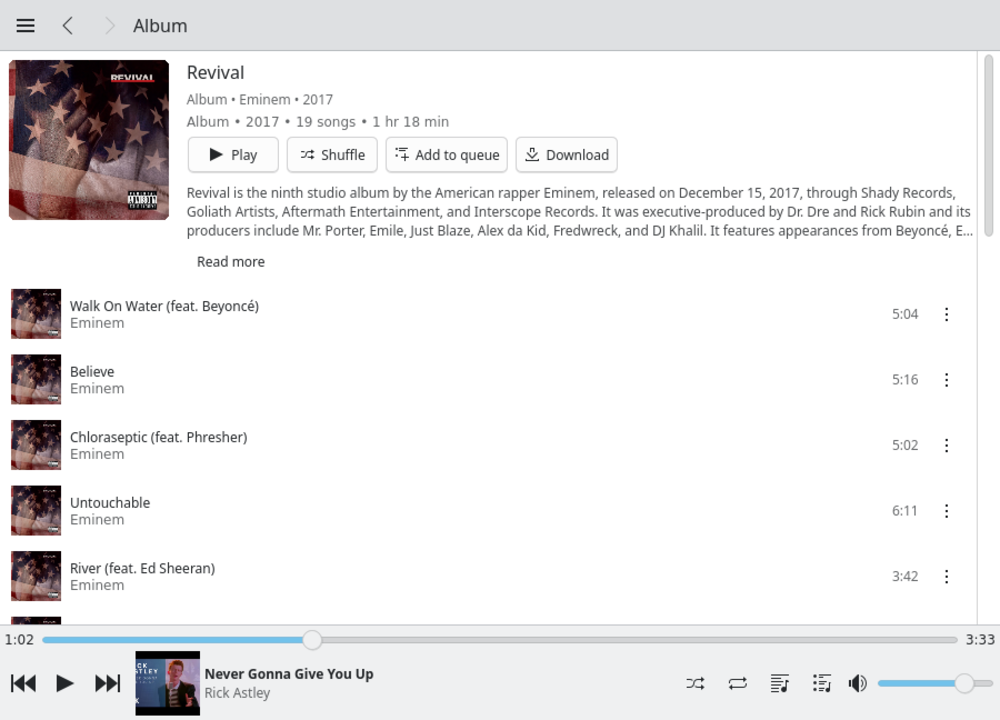
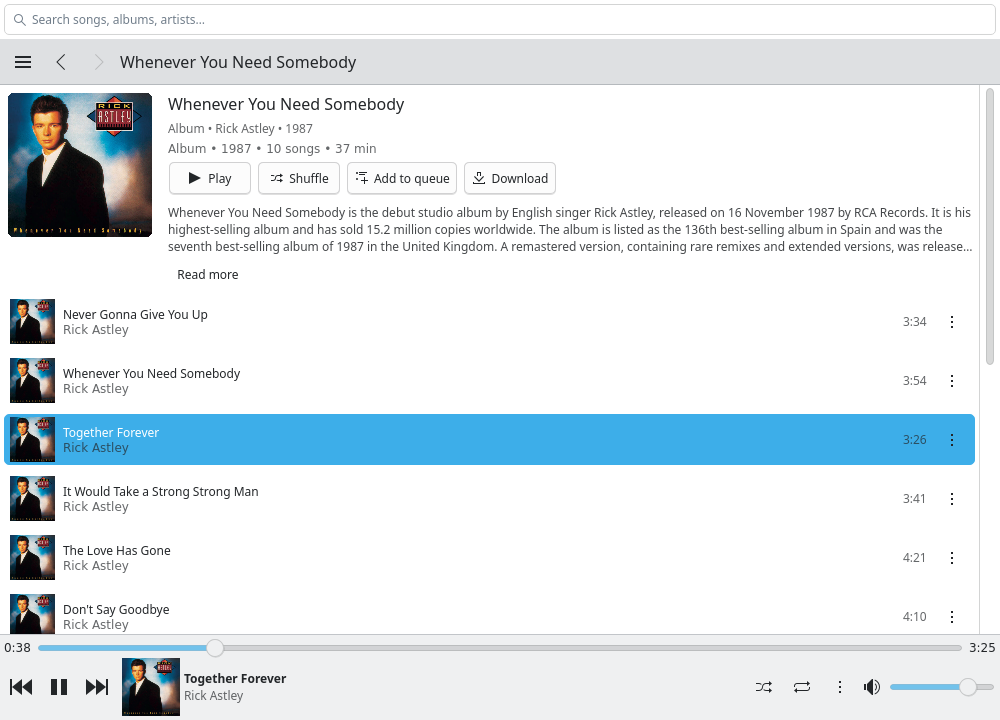
Fresh README screenshots (just screenshots), README and metadata brought up to date for release

diff --git a/tests/screenshots.qml b/tests/screenshots.qml
@@ -1,0 +1,69 @@
+// SPDX-License-Identifier: GPL-3.0-only
+// Takes the README screenshots (docs/img) from the real app, signed out, in a hidden session: `just screenshots`.
+// Run by the harness build (`yqt --qml tests/screenshots.qml`, YQT_HARNESS_LIVE=1); the folder to write to is the
+// program's last argument.
+import QtQuick
+import dev.bybrooklyn.yqt
+
+QtObject {
+    id: drv
+
+    readonly property string out: Qt.application.arguments[Qt.application.arguments.length - 1] + "/"
+    property var win: null
+    property var album: null
+    property var artist: null
+    property var steps: []
+    property int at: 0
+
+    property Timer timer: Timer { onTriggered: drv.run() }
+    function after(ms) { timer.interval = ms; timer.start() }
+    function run() {
+        const step = steps[at++]
+        if (step) step(); else Qt.quit()
+    }
+    function page() { return win.pageStack.currentItem }
+    // the whole window: page header, search bar, page and the player bar
+    function shot(name, wait) {
+        let item = win.contentItem
+        while (item.parent) item = item.parent
+        item.grabToImage(result => {
+            console.log("screenshot", name, result.saveToFile(out + name + ".png") ? "saved" : "NOT SAVED")
+            after(wait || 300)
+        })
+    }
+
+    Component.onCompleted: {
+        win = Qt.createComponent("qrc:/qt/qml/dev/bybrooklyn/yqt/qml/Main.qml").createObject(null)
+        win.width = 1000; win.height = 720
+        steps = [
+            () => { win.search("Rick Astley Whenever You Need Somebody"); after(8000) },
+            () => {
+                album = page().items.find(i => i.kind === "album")
+                artist = page().items.find(i => i.kind === "artist")
+                console.log("found", album ? album.title : "no album", "/", artist ? artist.title : "no artist")
+                win.open(album); after(7000)
+            },
+            () => {
+                // a click on a song of the album: the queue is the album, playing from that song
+                const p = page()
+                let i = p.items.findIndex(x => x.kind === "song" && x.title.indexOf("Together Forever") >= 0)
+                if (i < 0) i = p.items.findIndex(x => x.kind === "song")
+                p.activate(i)
+                console.log("album songs", p.songs().length, "playing row", Player.index, Player.title)
+                after(40000)
+            },
+            () => shot("album"),
+            () => { win.showLyrics(); after(6000) },
+            () => shot("lyrics"),
+            () => { page().tab = "queue"; after(1500) },
+            () => shot("queue"),
+            () => { win.pageStack.pop(); win.open(artist); after(8000) },
+            () => shot("artist"),
+            () => { win.go("home"); after(15000) },
+            () => shot("home"),
+            () => { win.go("settings"); after(3000) },
+            () => shot("settings"),
+        ]
+        after(4000)
+    }
+}

diff --git a/src/main.rs b/src/main.rs
@@ -37,8 +37,6 @@ mod page;
 mod mpris_stub_check;
 mod nav;
 mod notify;
-#[cfg(target_os = "linux")]
-mod single;
 mod pagedata;
 mod pages;
 mod platform;
@@ -49,6 +47,8 @@ mod reporting;
 mod security;
 mod session;
 mod settings;
+#[cfg(target_os = "linux")]
+mod single;
 mod state;
 mod tray;
 mod vision;
@@ -108,7 +108,7 @@ fn main() {
         app.as_mut().set_organization_domain(&QString::from("bybrooklyn.dev"));
         app.as_mut().set_application_name(&QString::from("yqt"));
         app.as_mut().set_application_version(&QString::from(env!("CARGO_PKG_VERSION"))); // the About page reads it
-        // Lets KDE/Wayland match the window to dev.bybrooklyn.yqt.desktop and so to its icon.
+                                                                                         // Lets KDE/Wayland match the window to dev.bybrooklyn.yqt.desktop and so to its icon.
         QGuiApplication::set_desktop_file_name(&QString::from("dev.bybrooklyn.yqt"));
     }
     let mut engine = QQmlApplicationEngine::new();
@@ -116,7 +116,9 @@ fn main() {
         #[cfg(feature = "harness")]
         let entry = {
             // canned pages and no stream lookups: nothing leaves the machine
-            if std::env::var_os("YTM_DEMO").is_some() || std::env::args().any(|a| a == "--qml") {
+            // (`YQT_HARNESS_LIVE`: a `--qml` driver over the real, signed-out YouTube Music, e.g. for the README screenshots)
+            let live = std::env::var_os("YQT_HARNESS_LIVE").is_some();
+            if std::env::var_os("YTM_DEMO").is_some() || (!live && std::env::args().any(|a| a == "--qml")) {
                 page::install_demo_source();
                 player::disable_streams();
             }

diff --git a/README.md b/README.md
@@ -3,12 +3,14 @@
 # YQT
 
 A native YouTube Music client written in **Rust**, **Qt 6** ([cxx-qt](https://github.com/KDAB/cxx-qt)) and **Kirigami**.
-No browser engine, no Electron, no FFmpeg, no system OpenSSL: networking is rustls and the optional audio engine is pure Rust.
+No browser engine, no Electron, no system OpenSSL: networking is rustls and the optional audio engine is pure Rust.
 
 It looks and behaves like a normal KDE application: standard Kirigami and Breeze controls, nothing hand-drawn.
 
+YQT is an independent project. It is not affiliated with, endorsed by or supported by YouTube or Google, and it needs your own YouTube Music account for anything personal.
+
 <p align="center">
-  <img src="docs/img/home.png" alt="Home: shelves of cards" width="49%">
+  <img src="docs/img/home.png" alt="Home" width="49%">
   <img src="docs/img/artist.png" alt="An artist page with bio, Wikipedia link and top songs" width="49%">
 </p>
 <p align="center">
@@ -17,17 +19,18 @@ It looks and behaves like a normal KDE application: standard Kirigami and Breeze
 </p>
 <p align="center">
   <img src="docs/img/album.png" alt="An album page" width="49%">
-  <img src="docs/img/settings.png" alt="Settings: the equalizer and downloads" width="49%">
+  <img src="docs/img/settings.png" alt="Settings: sign-in and playback" width="49%">
 </p>
 
 ## Features
 
-- **Browse and play:** Home and Explore as shelves of cards; album, playlist and artist pages with a description or bio (YouTube's own text) and a Wikipedia link; Library, search, queue, shuffle, repeat, radio.
+- **Browse and play:** Home and Explore; album, playlist and artist pages with a description or bio (YouTube's own text) and a Wikipedia link; Library, search, queue, shuffle, repeat, radio.
 - **Lyrics:** [LRCLIB](https://lrclib.net), NetEase and YouTube's plain lyrics are asked in parallel and line-synced lyrics always win. Big type, the current line tinted with the cover's colour and filled as it is sung, the source as a quiet last line. Each provider can be switched off; they only ever receive title, artist and duration.
 - **Player:** transport on the left of the bar, smooth progress, press the bar to open or close the player; the queue reorders by dragging and has a ⋮ and right-click menu on every row.
 - **Downloads:** per song, album or playlist, plus opt-in smart downloads (liked songs, recently played, upcoming queue) within a storage limit (4 GB by default, configurable). Quality, your own folder, and automatic pause on a metered connection or low battery. Downloaded songs play from disk and work offline.
 - **Audio:** Qt Multimedia by default; switch to the built-in **pure-Rust engine** (symphonia, Opus via [opus-rs](https://crates.io/crates/opus-rs), AAC, resampling, limiter) for gapless playback, crossfade, loudness normalisation and a **10-band equalizer** with presets and preamp.
-- **Mini-player and system tray** (Linux: a StatusNotifierItem over D-Bus), close to the tray, MPRIS media keys, configurable keyboard shortcuts.
+- **Mini-player and system tray** (Linux: a StatusNotifierItem over D-Bus), close to the tray, MPRIS media keys, the mouse's back and forward buttons, configurable keyboard shortcuts.
+- **A good desktop citizen** (Linux): one instance (starting it again raises the window), a standard About page, AppStream metadata, and a desktop notification only when something went wrong while the window was not in view. Tracks changing are never announced.
 - **Sign-in:** Settings → *Import from <browser>* (Chrome, Chromium, Brave, Vivaldi, Edge, Opera, Firefox, Zen, LibreWolf, Waterfox) or paste cookies. Enables Library, Liked music, History, personalised Home, likes and add-to-playlist, and **reports plays back to YouTube** so your history and recommendations stay right (Settings → Privacy turns it off).
 - **Settings:** one scrolling page; every change is validated, saved to `config.toml` with your comments intact, and applies at once.
 
@@ -42,9 +45,11 @@ Install Qt 6, Kirigami and qqc2-desktop-style from your distro (on Debian/Ubuntu
 ```sh
 just run          # debug build and run
 just check        # fmt + clippy + tests
-just install      # ~/.local/bin + desktop entry
+just install      # ~/.local/bin + desktop entry, icon and AppStream metadata
 just              # list every recipe
 ```
+
+`just export-linux` builds `dist/yqt-linux-x86_64.zip`, a bundle with the Qt, Kirigami and Breeze files it needs.
 
 ### Windows (experimental)
 
@@ -68,12 +73,12 @@ Install Qt 6 and Kirigami through Craft, then `just package-macos` builds a `.ap
 
 ### Other recipes
 
-`just deny` (licences, advisories; OpenSSL is banned), `just live` (live checks against YouTube and LRCLIB, needs network), `just config` (where `config.toml` lives).
+`just deny` (licences, advisories; OpenSSL is banned), `just screenshots` (retakes the pictures above from the real app, signed out, hidden and silent), `just live` (live checks against YouTube and LRCLIB, needs network), `just config` (where `config.toml` lives).
 
 ## How it works
 
 - **Data:** [RustyPipe](https://github.com/TeamPiped/rustypipe) (InnerTube client) for search, browse, library and history.
-- **Streams:** InnerTube's visionOS client (`src/vision.rs`), served through a small token-protected localhost proxy (`src/proxy.rs`). Settings → *Check streams* tests the route.
+- **Streams:** InnerTube's visionOS client (`src/vision.rs`), served through a small token-protected localhost proxy (`src/proxy.rs`). Settings → *Check streams* tests the route. Songs YouTube only plays for a signed-in account go through the web player with your own session (`src/challenge.rs`), which runs YouTube's player script in an embedded QuickJS.
 - **Logic lives in Rust**: list models, page controllers, paging and caching, errors, downloads, lyrics ranking, settings. QML is the view.
 
 ## Configuration
@@ -89,7 +94,7 @@ See [SECURITY.md](SECURITY.md) for the threat model. In short: your cookies stay
 
 | | Linux | macOS | Windows |
 |---|---|---|---|
-| Builds and runs | ✅ developed and tested | ⚠ not built yet | ⚠ not built yet |
+| Builds and runs | ✅ developed and tested | ⚠ not built yet | ⚠ cross-compiles from Linux and starts under Wine; the window needs Kirigami from KDE Craft, which has not been tried on real Windows |
 | Look | Kirigami + Breeze, follows Plasma | same (`org.kde.desktop`, Fusion only if missing) | same (`org.kde.desktop`, Fusion only if missing) |
 | Sign-in: paste cookies | ✅ | ✅ | ✅ |
 | Sign-in: Firefox-family import | ✅ | ✅ (logic tested) | ✅ (logic tested) |
@@ -107,6 +112,8 @@ The real Keychain and DPAPI calls and the Qt/Kirigami build on macOS and Windows
 - Not yet confirmed on a live Plasma session: the tray icon in a real panel (it is tested against a fake tray host: `just tray-test`), the mini-player's always-on-top flag on Wayland, and the bar's colour in a genuinely unfocused window (the colour pin is checked against a forced Inactive palette).
 - Queue drag-to-reorder is tested with synthesised mouse events (`just qml-test`), not with a physical mouse.
 - NetEase lyrics use an unofficial API and may stop working.
+- A sign-in imported from a browser goes stale when that browser renews its session (minutes to hours). The app notices and imports it again by itself; with pasted cookies you have to paste again.
+- YouTube changes its private interfaces without notice, so a page or playback can break until the app (or RustyPipe) catches up.
 
 ## License
 
